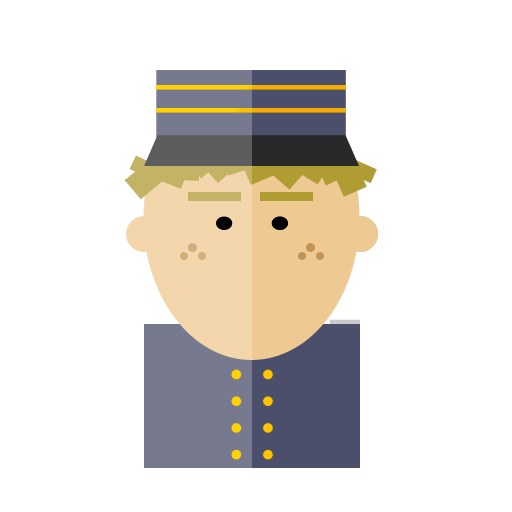
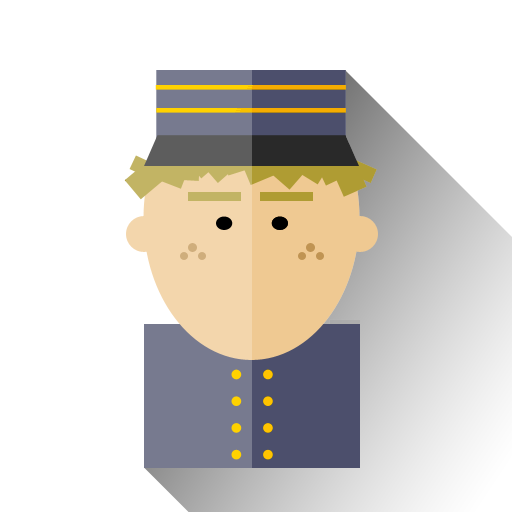
portrait tweeks

Changed region(s): [[0.2812, 0.125, 1.0, 1.0]]

diff --git a/css/mycss.css b/css/mycss.css
@@ -64,7 +64,7 @@ button.close {
 .portrait > img{
   box-shadow: 0 0.2em 0.5em grey;
   display: inline-block;
-  background: #f5f5f5;
+  background: #635e77;
   position: relative;
   top: 0em;
   left: 0em;
@@ -77,7 +77,8 @@ button.close {
 }
 
 .portrait>img:hover{
-  background: white;
+  background: #b8b5c5;
+  box-shadow: 0 0.2em .5em 0.1em grey;
 }
 .portrait > p{
 	margin: 0.5em auto;
